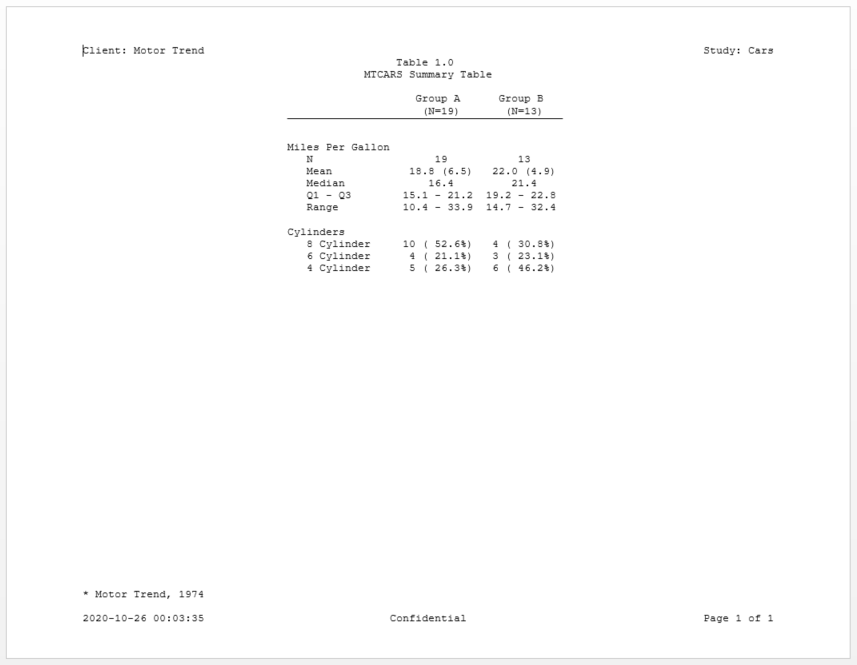
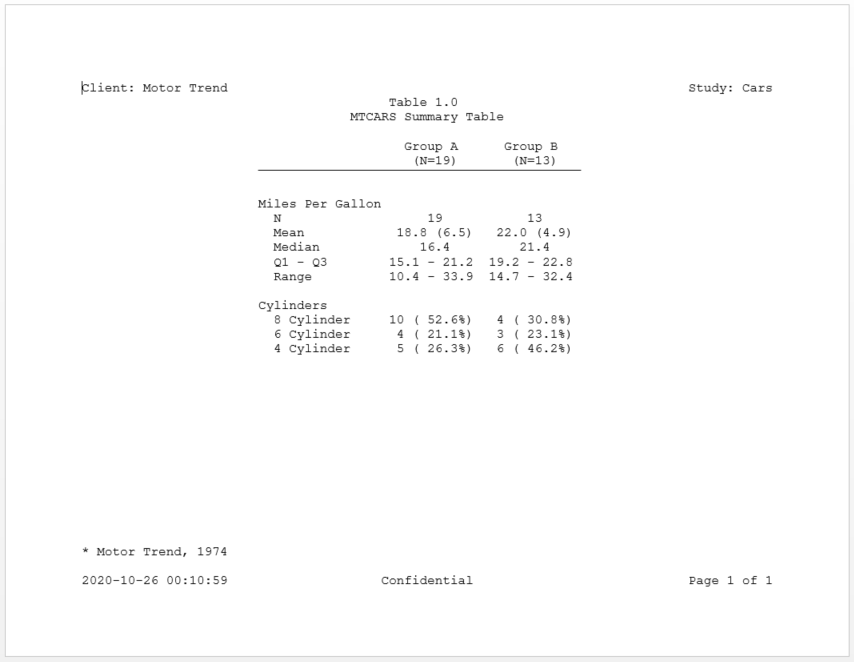
More readme changes.

diff --git a/README.md b/README.md
@@ -725,6 +725,8 @@ tbl <- create_table(df, first_row_blank = TRUE) %>%
 
 # Create report and add content
 rpt <- create_report(tmp, output_type = "RTF") %>% 
+  set_margins(top = 1, bottom = 1) %>%
+  options_fixed(font_size = 12) %>% 
   page_header(left = "Client: Motor Trend", right = "Study: Cars") %>% 
   titles("Table 1.0", "MTCARS Summary Table") %>% 
   add_content(tbl) %>% 
